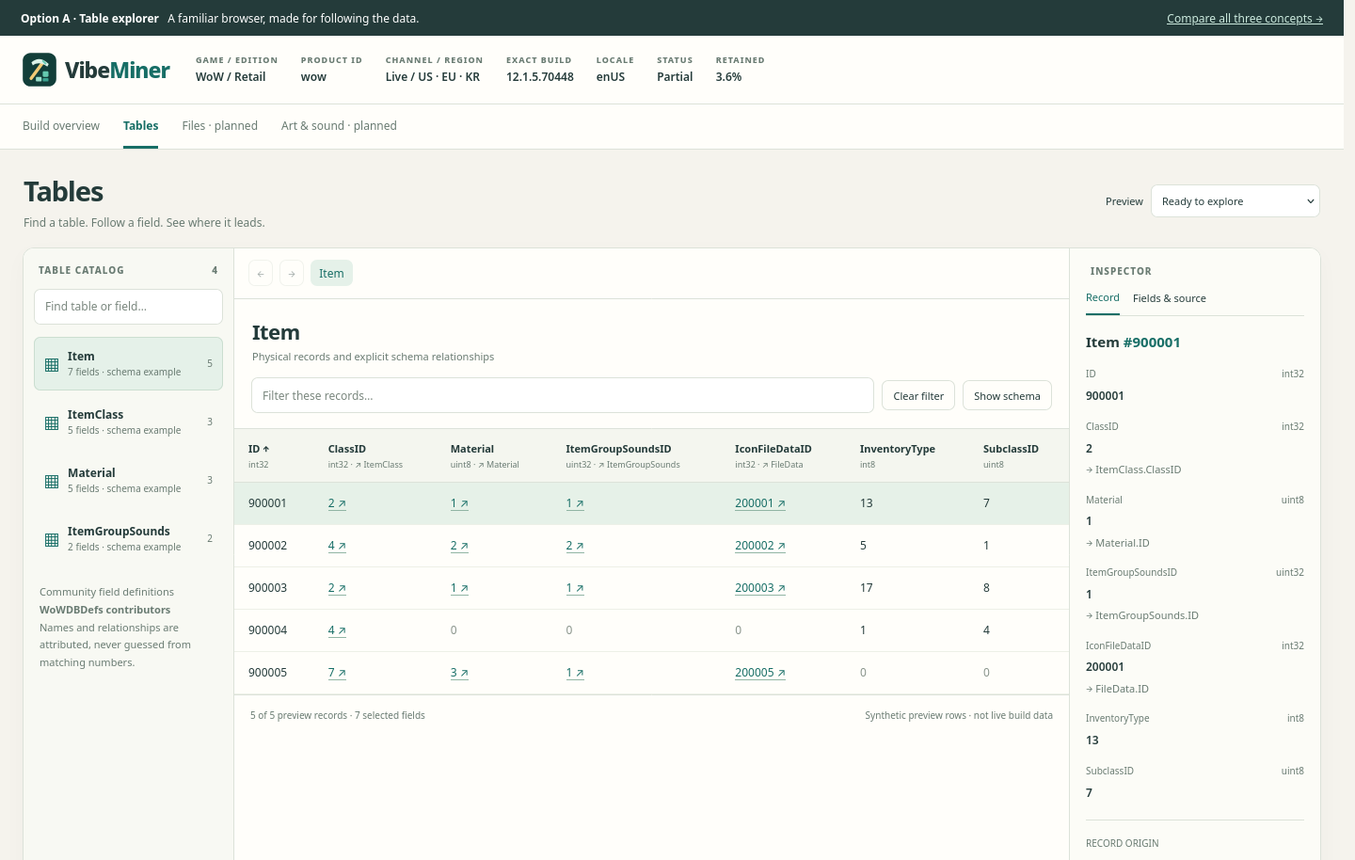
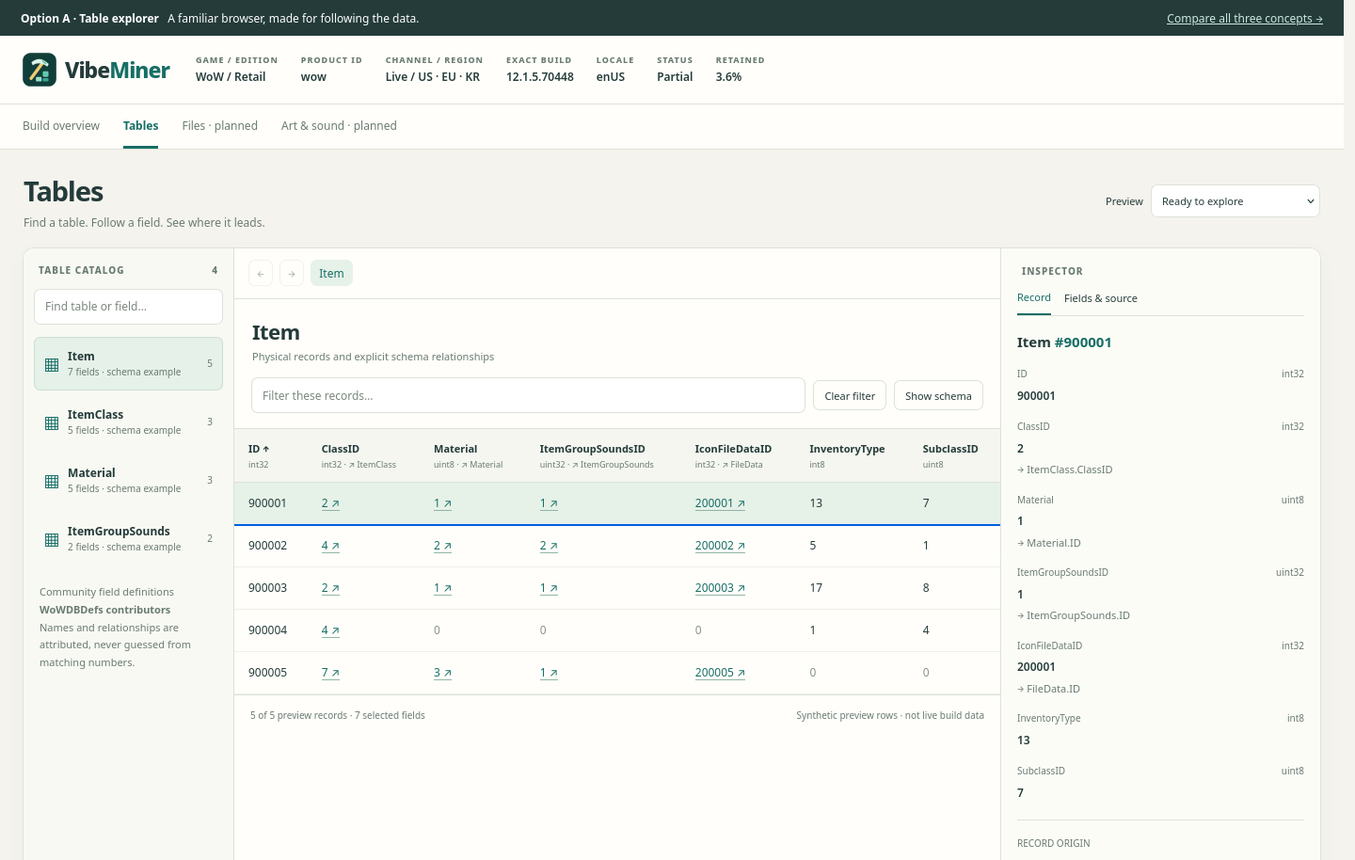
Refine Explorer inspector width and reset table trails (#108)

diff --git a/docs/design/tables/explorer/index.html b/docs/design/tables/explorer/index.html
@@ -1,5 +1,5 @@
 <!doctype html><html lang="en"><head><meta charset="utf-8"><meta name="viewport" content="width=device-width,initial-scale=1"><title>VibeMiner · Table explorer</title><link rel="icon" href="../../../../branding/vibeminer.svg"><style>
-:root{--bg:#f5f3ed;--paper:#fffefa;--ink:#243b3a;--muted:#697b72;--line:#dce2d9;--teal:#176e66;--mint:#e5f1e9;--gold:#936729}*{box-sizing:border-box}body{margin:0;background:var(--bg);color:var(--ink);font:14px/1.5 system-ui,sans-serif}button,input,select{font:inherit;color:inherit}button,a,input,select{outline-offset:3px}button:focus-visible,a:focus-visible,input:focus-visible,select:focus-visible{outline:3px solid #dda33a}button{border:1px solid var(--line);border-radius:7px;background:var(--paper);padding:7px 11px;cursor:pointer}button:hover{background:var(--mint);border-color:#91b5a4}button:disabled{opacity:.4;cursor:default}a{color:var(--teal)}input,select{border:1px solid var(--line);background:white;border-radius:7px;padding:9px 11px;min-width:0}input::placeholder{color:#7a877e}.review{padding:10px 22px;background:var(--ink);color:#fff;font-size:12px;display:flex;justify-content:space-between;gap:12px;flex-wrap:wrap}.review a{color:#cceade}.apphead{padding:17px 23px;display:flex;gap:28px;align-items:center;background:var(--paper);border-bottom:1px solid var(--line);flex-wrap:wrap}.brand{display:flex;gap:8px;align-items:center;font-size:23px;letter-spacing:-1px;font-weight:750}.brand img{width:38px;height:38px}.brand em{color:var(--teal);font-style:normal}.identity{display:flex;gap:24px;flex-wrap:wrap}.identity label{display:block;font-size:9px;font-weight:750;letter-spacing:1px;color:var(--muted)}.identity b{font-size:12px;font-weight:600}.appnav{display:flex;gap:25px;padding:0 24px;background:var(--paper);border-bottom:1px solid var(--line)}.appnav a,.appnav span{padding:13px 0;text-decoration:none;font-size:12px;color:var(--muted)}.appnav .active{color:var(--teal);border-bottom:3px solid var(--teal);font-weight:700}.heading{display:flex;align-items:center;justify-content:space-between;padding:22px 25px 17px;gap:15px}.heading h1{font-size:29px;letter-spacing:-1px;margin:0}.heading p{color:var(--muted);font-size:12px;margin:3px 0 0}.statepick{display:flex;gap:8px;align-items:center;font-size:11px}.statepick select{font-size:11px;max-width:180px}.workbench{display:grid;grid-template-columns:224px minmax(300px,1fr) 267px;min-height:550px;margin:0 24px 25px;border:1px solid var(--line);border-radius:12px;background:var(--paper);overflow:hidden;box-shadow:0 7px 24px #1b372407}.tables{background:#f8f9f3;border-right:1px solid var(--line);padding:16px 11px}.sectionlabel{display:flex;justify-content:space-between;font-size:10px;font-weight:750;color:var(--muted);letter-spacing:1px;text-transform:uppercase;margin:0 5px 12px}.tables input{width:100%;font-size:12px;margin-bottom:13px}.tableitem{display:flex;align-items:center;gap:9px;border-color:transparent;background:transparent;width:100%;text-align:left;padding:11px 10px;margin-bottom:5px}.tableitem.selected{background:var(--mint);border-color:#cbded0}.tableitem .glyph{font-size:21px;color:var(--teal)}.tableitem b{display:block;font-size:12px}.tableitem small{display:block;font-size:10px;color:var(--muted)}.count{margin-left:auto;font-size:10px;color:var(--muted)}.smallnote{font-size:11px;line-height:1.7;color:var(--muted);margin:19px 6px}.center{min-width:0}.trail{display:flex;align-items:center;gap:7px;padding:12px 15px;border-bottom:1px solid var(--line);min-height:54px;overflow:auto}.trail button{font-size:12px;padding:4px 8px;white-space:nowrap}.trail .crumb{color:var(--teal);background:var(--mint);border-color:transparent}.tabletitle{padding:18px 19px 14px}.tabletitle h2{font-size:22px;letter-spacing:-.5px;margin:0 0 2px}.tabletitle p{margin:0;font-size:11px;color:var(--muted)}.toolbar{display:flex;gap:8px;align-items:center;padding:0 18px 16px;flex-wrap:wrap}.toolbar input{flex:1;min-width:140px;font-size:12px}.toolbar button{font-size:11px}.notice{background:#fff4dd;border:1px solid #ead8af;color:#805d25;padding:10px 12px;border-radius:7px;font-size:11px;margin:0 18px 13px}.notice.good{background:#edf5ed;color:var(--teal);border-color:#d5e5d6}.gridwrap{overflow:auto;max-height:400px;min-height:255px;border-top:1px solid var(--line)}table{width:100%;border-collapse:collapse;white-space:nowrap;font-size:12px}th{text-align:left;background:#f4f6ef;padding:11px 15px;border-bottom:1px solid var(--line);position:sticky;top:0;z-index:1}th button{border:0;background:transparent;padding:0;text-align:left;font-size:11px;font-weight:700}th small{display:block;font-size:9px;font-weight:400;color:var(--muted);margin-top:2px}td{padding:13px 15px;border-bottom:1px solid #edf0e7;font-variant-numeric:tabular-nums}tr:hover td{background:#f3f7ee}tr.selected td{background:#e6f1e8}tr.matched td:first-child{box-shadow:inset 3px 0 var(--teal)}.fk{border:0;padding:0;background:none;color:var(--teal);font-size:12px;text-decoration:underline;text-decoration-color:#91b5a4;text-underline-offset:3px}.fk:hover{background:none}.null{color:#89948b}.rowfooter{display:flex;justify-content:space-between;gap:12px;padding:14px 17px;font-size:10px;color:var(--muted);border-top:1px solid var(--line)}.inspector{border-left:1px solid var(--line);padding:17px;background:#fcfcf7;min-width:0}.inspector h3{font-size:15px;margin:4px 0 15px}.inspector .tabs{display:flex;gap:14px;border-bottom:1px solid var(--line);margin-bottom:16px}.tabs button{border:0;border-radius:0;padding:0 0 9px;font-size:11px;background:none}.tabs .active{color:var(--teal);border-bottom:2px solid var(--teal)}.field{margin:0 0 16px}.field label{display:block;font-size:10px;color:var(--muted);margin-bottom:4px}.field b{font-size:12px;font-weight:600;overflow-wrap:anywhere}.field code{font-size:11px;background:#eaf0e7;padding:2px 5px;border-radius:3px}.field p{font-size:11px;margin:5px 0;color:var(--muted)}.field a{overflow-wrap:anywhere;font-size:11px}.divider{border-top:1px solid var(--line);padding-top:17px;margin-top:19px}.empty{text-align:center;white-space:normal;padding:45px 25px}.empty h3{font-size:18px;margin:0 0 8px}.empty p{color:var(--muted);max-width:350px;margin:0 auto 15px;font-size:12px}.footer{padding:0 25px 22px;color:var(--muted);font-size:10px}.toast{position:fixed;bottom:22px;left:50%;transform:translateX(-50%);background:var(--ink);color:white;padding:11px 18px;border-radius:8px;font-size:12px;max-width:90vw;z-index:5}.schema-row{display:grid;grid-template-columns:1fr 1fr;padding:10px 0;border-bottom:1px solid var(--line);font-size:11px}.schema-row b{font-weight:600}.schema-row span{color:var(--muted)}@media(max-width:1100px){.workbench{grid-template-columns:190px minmax(300px,1fr)}.inspector{grid-column:1/-1;border-left:0;border-top:1px solid var(--line);display:block}.inspector .fields{display:flex;gap:25px;flex-wrap:wrap}.inspector .field{min-width:150px;flex:1}.identity{gap:13px}.apphead{gap:18px}.workbench{margin:0 15px 20px}}@media(max-width:700px){.workbench{display:block}.tables{border-right:0;border-bottom:1px solid var(--line)}#tablelist{display:flex;overflow:auto}.tableitem{min-width:160px}.tables .smallnote{display:none}.heading{align-items:flex-start;flex-wrap:wrap}.identity{width:100%}.appnav{overflow:auto;gap:20px}.appnav span,.appnav a{white-space:nowrap}.review{font-size:11px}.gridwrap{max-height:350px}.statepick{flex-wrap:wrap}.apphead{padding:13px 18px}}
+:root{--bg:#f5f3ed;--paper:#fffefa;--ink:#243b3a;--muted:#697b72;--line:#dce2d9;--teal:#176e66;--mint:#e5f1e9;--gold:#936729}*{box-sizing:border-box}body{margin:0;background:var(--bg);color:var(--ink);font:14px/1.5 system-ui,sans-serif}button,input,select{font:inherit;color:inherit}button,a,input,select{outline-offset:3px}button:focus-visible,a:focus-visible,input:focus-visible,select:focus-visible{outline:3px solid #dda33a}button{border:1px solid var(--line);border-radius:7px;background:var(--paper);padding:7px 11px;cursor:pointer}button:hover{background:var(--mint);border-color:#91b5a4}button:disabled{opacity:.4;cursor:default}a{color:var(--teal)}input,select{border:1px solid var(--line);background:white;border-radius:7px;padding:9px 11px;min-width:0}input::placeholder{color:#7a877e}.review{padding:10px 22px;background:var(--ink);color:#fff;font-size:12px;display:flex;justify-content:space-between;gap:12px;flex-wrap:wrap}.review a{color:#cceade}.apphead{padding:17px 23px;display:flex;gap:28px;align-items:center;background:var(--paper);border-bottom:1px solid var(--line);flex-wrap:wrap}.brand{display:flex;gap:8px;align-items:center;font-size:23px;letter-spacing:-1px;font-weight:750}.brand img{width:38px;height:38px}.brand em{color:var(--teal);font-style:normal}.identity{display:flex;gap:24px;flex-wrap:wrap}.identity label{display:block;font-size:9px;font-weight:750;letter-spacing:1px;color:var(--muted)}.identity b{font-size:12px;font-weight:600}.appnav{display:flex;gap:25px;padding:0 24px;background:var(--paper);border-bottom:1px solid var(--line)}.appnav a,.appnav span{padding:13px 0;text-decoration:none;font-size:12px;color:var(--muted)}.appnav .active{color:var(--teal);border-bottom:3px solid var(--teal);font-weight:700}.heading{display:flex;align-items:center;justify-content:space-between;padding:22px 25px 17px;gap:15px}.heading h1{font-size:29px;letter-spacing:-1px;margin:0}.heading p{color:var(--muted);font-size:12px;margin:3px 0 0}.statepick{display:flex;gap:8px;align-items:center;font-size:11px}.statepick select{font-size:11px;max-width:180px}.workbench{display:grid;grid-template-columns:224px minmax(300px,1fr) 340px;min-height:550px;margin:0 24px 25px;border:1px solid var(--line);border-radius:12px;background:var(--paper);overflow:hidden;box-shadow:0 7px 24px #1b372407}.tables{background:#f8f9f3;border-right:1px solid var(--line);padding:16px 11px}.sectionlabel{display:flex;justify-content:space-between;font-size:10px;font-weight:750;color:var(--muted);letter-spacing:1px;text-transform:uppercase;margin:0 5px 12px}.tables input{width:100%;font-size:12px;margin-bottom:13px}.tableitem{display:flex;align-items:center;gap:9px;border-color:transparent;background:transparent;width:100%;text-align:left;padding:11px 10px;margin-bottom:5px}.tableitem.selected{background:var(--mint);border-color:#cbded0}.tableitem .glyph{font-size:21px;color:var(--teal)}.tableitem b{display:block;font-size:12px}.tableitem small{display:block;font-size:10px;color:var(--muted)}.count{margin-left:auto;font-size:10px;color:var(--muted)}.smallnote{font-size:11px;line-height:1.7;color:var(--muted);margin:19px 6px}.center{min-width:0}.trail{display:flex;align-items:center;gap:7px;padding:12px 15px;border-bottom:1px solid var(--line);min-height:54px;overflow:auto}.trail button{font-size:12px;padding:4px 8px;white-space:nowrap}.trail .crumb{color:var(--teal);background:var(--mint);border-color:transparent}.tabletitle{padding:18px 19px 14px}.tabletitle h2{font-size:22px;letter-spacing:-.5px;margin:0 0 2px}.tabletitle p{margin:0;font-size:11px;color:var(--muted)}.toolbar{display:flex;gap:8px;align-items:center;padding:0 18px 16px;flex-wrap:wrap}.toolbar input{flex:1;min-width:140px;font-size:12px}.toolbar button{font-size:11px}.notice{background:#fff4dd;border:1px solid #ead8af;color:#805d25;padding:10px 12px;border-radius:7px;font-size:11px;margin:0 18px 13px}.notice.good{background:#edf5ed;color:var(--teal);border-color:#d5e5d6}.gridwrap{overflow:auto;max-height:400px;min-height:255px;border-top:1px solid var(--line)}table{width:100%;border-collapse:collapse;white-space:nowrap;font-size:12px}th{text-align:left;background:#f4f6ef;padding:11px 15px;border-bottom:1px solid var(--line);position:sticky;top:0;z-index:1}th button{border:0;background:transparent;padding:0;text-align:left;font-size:11px;font-weight:700}th small{display:block;font-size:9px;font-weight:400;color:var(--muted);margin-top:2px}td{padding:13px 15px;border-bottom:1px solid #edf0e7;font-variant-numeric:tabular-nums}tr:hover td{background:#f3f7ee}tr.selected td{background:#e6f1e8}tr.matched td:first-child{box-shadow:inset 3px 0 var(--teal)}.fk{border:0;padding:0;background:none;color:var(--teal);font-size:12px;text-decoration:underline;text-decoration-color:#91b5a4;text-underline-offset:3px}.fk:hover{background:none}.null{color:#89948b}.rowfooter{display:flex;justify-content:space-between;gap:12px;padding:14px 17px;font-size:10px;color:var(--muted);border-top:1px solid var(--line)}.inspector{border-left:1px solid var(--line);padding:17px;background:#fcfcf7;min-width:0}.inspector h3{font-size:15px;margin:4px 0 15px}.inspector .tabs{display:flex;gap:14px;border-bottom:1px solid var(--line);margin-bottom:16px}.tabs button{border:0;border-radius:0;padding:0 0 9px;font-size:11px;background:none}.tabs .active{color:var(--teal);border-bottom:2px solid var(--teal)}.field{margin:0 0 16px}.field label{display:block;font-size:10px;color:var(--muted);margin-bottom:4px}.field b{font-size:12px;font-weight:600;overflow-wrap:anywhere}.field code{font-size:11px;background:#eaf0e7;padding:2px 5px;border-radius:3px}.field p{font-size:11px;margin:5px 0;color:var(--muted)}.field a{overflow-wrap:anywhere;font-size:11px}.divider{border-top:1px solid var(--line);padding-top:17px;margin-top:19px}.empty{text-align:center;white-space:normal;padding:45px 25px}.empty h3{font-size:18px;margin:0 0 8px}.empty p{color:var(--muted);max-width:350px;margin:0 auto 15px;font-size:12px}.footer{padding:0 25px 22px;color:var(--muted);font-size:10px}.toast{position:fixed;bottom:22px;left:50%;transform:translateX(-50%);background:var(--ink);color:white;padding:11px 18px;border-radius:8px;font-size:12px;max-width:90vw;z-index:5}.schema-row{display:grid;grid-template-columns:1fr 1fr;padding:10px 0;border-bottom:1px solid var(--line);font-size:11px}.schema-row b{font-weight:600}.schema-row span{color:var(--muted)}@media(max-width:1100px){.workbench{grid-template-columns:190px minmax(300px,1fr)}.inspector{grid-column:1/-1;border-left:0;border-top:1px solid var(--line);display:block}.inspector .fields{display:flex;gap:25px;flex-wrap:wrap}.inspector .field{min-width:150px;flex:1}.identity{gap:13px}.apphead{gap:18px}.workbench{margin:0 15px 20px}}@media(max-width:700px){.workbench{display:block}.tables{border-right:0;border-bottom:1px solid var(--line)}#tablelist{display:flex;overflow:auto}.tableitem{min-width:160px}.tables .smallnote{display:none}.heading{align-items:flex-start;flex-wrap:wrap}.identity{width:100%}.appnav{overflow:auto;gap:20px}.appnav span,.appnav a{white-space:nowrap}.review{font-size:11px}.gridwrap{max-height:350px}.statepick{flex-wrap:wrap}.apphead{padding:13px 18px}}
 </style></head><body><div class="review"><span><b>Option A · Table explorer</b> &nbsp; A familiar browser, made for following the data.</span><a href="../index.html">Compare all three concepts →</a></div><header class="apphead"><div class="brand"><img src="../../../../branding/vibeminer.svg" alt=""><span>Vibe<em>Miner</em></span></div><div class="identity"><div><label>GAME / EDITION</label><b>WoW / Retail</b></div><div><label>PRODUCT ID</label><b>wow</b></div><div><label>CHANNEL / REGION</label><b>Live / US · EU · KR</b></div><div><label>EXACT BUILD</label><b>12.1.5.70448</b></div><div><label>LOCALE</label><b>enUS</b></div><div><label>STATUS</label><b>Partial</b></div><div><label>RETAINED</label><b>3.6%</b></div></div></header><nav class="appnav" aria-label="Build navigation"><a href="../../build-mining-home/index.html?concept=archive">Build overview</a><span class="active">Tables</span><span>Files · planned</span><span>Art & sound · planned</span></nav><div class="heading"><div><h1>Tables</h1><p>Find a table. Follow a field. See where it leads.</p></div><div class="statepick"><label for="state">Preview</label><select id="state"><option value="ready">Ready to explore</option><option value="notdownloaded">Not downloaded</option><option value="encrypted">Encrypted · key missing</option><option value="schema">No matching schema</option><option value="missing">Relationship target missing</option><option value="many">Multiple target matches</option></select></div></div><main class="workbench"><aside class="tables"><div class="sectionlabel">Table catalog <span>4</span></div><label for="tablequery" class="sr-only" hidden>Find a table or field</label><input id="tablequery" aria-label="Find a table or field" placeholder="Find table or field…"><div id="tablelist"></div><p class="smallnote">Community field definitions<br><b>WoWDBDefs contributors</b><br>Names and relationships are attributed, never guessed from matching numbers.</p></aside><section class="center" aria-label="Table records"><div class="trail"><button id="back" aria-label="Back in table navigation">←</button><button id="forward" aria-label="Forward in table navigation">→</button><div id="trail"></div></div><div class="tabletitle"><h2 id="tablename" tabindex="-1"></h2><p id="tablemeta"></p></div><div class="toolbar"><input id="rowquery" aria-label="Filter records in this table" placeholder="Filter these records…"><button id="clear">Clear filter</button><button id="schemaToggle">Show schema</button></div><div id="banner" aria-live="polite"></div><div class="gridwrap" id="grid"></div><div class="rowfooter"><span id="rowcount"></span><span>Synthetic preview rows · not live build data</span></div></section><aside class="inspector" aria-label="Record and field inspector"><div class="sectionlabel">Inspector</div><div class="tabs"><button id="recordtab" class="active">Record</button><button id="fieldtab">Fields & source</button></div><div id="inspect"></div></aside></main><footer class="footer">Interactive design prototype · authored sample records, not extracted game content. Actual community schema examples are separately attributed; definition selectors include build 12.1.5.70448, but actual file headers and row compatibility have not been validated. No downloads, persistence or CDN requests occur. Definition excerpts: WoWDBDefs contributors, <a href="https://github.com/wowdev/WoWDBDefs/blob/b9a63096cdd99b26967f17f9515377ae62cadfd7/LICENSE.md">CC BY-SA 4.0</a>.</footer><div id="toast" role="status"></div><script>
 const db={};
 const source='https://github.com/wowdev/WoWDBDefs/blob/b9a63096cdd99b26967f17f9515377ae62cadfd7/definitions/';
@@ -12,10 +12,10 @@ let current='Item',selected=900001,query='',sortField='ID',ascending=true,histor
 function toast(t){$('toast').textContent=t;$('toast').className='toast';setTimeout(()=>{$('toast').className='';$('toast').textContent=''},4500)}
 function remember(){history[position]={table:current,id:selected,match:targetMatch,query,sortField,ascending,schemaView,fieldView}}
 function focusRecord(){let row=document.querySelector('[data-row="'+selected+'"]');(row||$('tablename')).focus({preventScroll:true})}
-function goto(table,id=null,match=''){if(!db[table])return;remember();current=table;selected=id??db[table].rows[0]?.ID;targetMatch=match;query='';$('rowquery').value='';sortField='ID';ascending=true;history=history.slice(0,position+1);history.push({table,id:selected,match,query:'',sortField:'ID',ascending:true,schemaView,fieldView});position++;state='ready';$('state').value=state;render();focusRecord()}
+function goto(table,id=null,match='',fresh=false){if(!db[table])return;if(fresh){history=[];position=-1}else remember();current=table;selected=id??db[table].rows[0]?.ID;targetMatch=match;query='';$('rowquery').value='';sortField='ID';ascending=true;history=history.slice(0,position+1);history.push({table,id:selected,match,query:'',sortField:'ID',ascending:true,schemaView,fieldView});position++;state='ready';$('state').value=state;render();focusRecord()}
 function navigate(delta){remember();position+=delta;const h=history[position];current=h.table;selected=h.id;targetMatch=h.match||'';query=h.query||'';sortField=h.sortField||'ID';ascending=h.ascending??true;schemaView=h.schemaView??false;fieldView=h.fieldView??false;$('rowquery').value=query;state='ready';$('state').value=state;render();focusRecord()}
 function relation(field,value){if(value===0){toast('Zero is shown as a raw value; no target record is assumed.');return}if(!db[field.target]){$('banner').innerHTML='<div class="notice">'+esc(field.target)+' is outside this four-table preview. The DBD relationship is declared; no target record or availability is assumed.</div>';return}let matches=db[field.target].rows.filter(r=>r[field.key]===value);if(!matches.length){$('banner').innerHTML='<div class="notice">No matching '+esc(field.target)+'.'+esc(field.key)+' record in this preview. Source value '+value+' is preserved.</div>';return}if(matches.length>1){$('banner').innerHTML='<div class="notice">Multiple matching records in '+esc(field.target)+'.'+esc(field.key)+'. Choose a target: '+matches.map(r=>'<button data-candidate="'+r.ID+'">Record '+r.ID+'</button>').join(' ')+'</div>';document.querySelectorAll('[data-candidate]').forEach(b=>b.onclick=()=>goto(field.target,Number(b.dataset.candidate),field.key+' = '+value));return}goto(field.target,matches[0].ID,field.key+' = '+value)}
-function tablelist(){const q=$('tablequery').value.toLowerCase();$('tablelist').innerHTML=Object.keys(db).filter(t=>(t+' '+db[t].fields.map(f=>f.name).join(' ')).toLowerCase().includes(q)).map(t=>'<button class="tableitem '+(t===current?'selected':'')+'" data-table="'+t+'"><span class="glyph">▦</span><span><b>'+t+'</b><small>'+db[t].fields.length+' fields · schema example</small></span><span class="count">'+db[t].rows.length+'</span></button>').join('')||'<p class="smallnote">No matching tables or fields.</p>';document.querySelectorAll('[data-table]').forEach(b=>b.onclick=()=>goto(b.dataset.table))}
+function tablelist(){const q=$('tablequery').value.toLowerCase();$('tablelist').innerHTML=Object.keys(db).filter(t=>(t+' '+db[t].fields.map(f=>f.name).join(' ')).toLowerCase().includes(q)).map(t=>'<button class="tableitem '+(t===current?'selected':'')+'" data-table="'+t+'"><span class="glyph">▦</span><span><b>'+t+'</b><small>'+db[t].fields.length+' fields · schema example</small></span><span class="count">'+db[t].rows.length+'</span></button>').join('')||'<p class="smallnote">No matching tables or fields.</p>';document.querySelectorAll('[data-table]').forEach(b=>b.onclick=()=>goto(b.dataset.table,null,'',true))}
 function inspector(){const table=db[current],row=table.rows.find(r=>r.ID===selected);$('recordtab').classList.toggle('active',!fieldView);$('fieldtab').classList.toggle('active',fieldView);if(fieldView){$('inspect').innerHTML='<h3>Field definitions</h3><div class="fields">'+table.fields.map(f=>'<div class="field"><label>'+esc(f.name)+'</label><b>'+esc(f.type)+'</b>'+(f.target?'<p>Declared relationship<br><code>'+f.target+'.'+f.key+'</code></p>':f.name==='SubclassID'?'<p>No explicit relationship here. Matching numbers are not a link.</p>':'')+'</div>').join('')+'</div><div class="field divider"><label>DEFINITION SOURCE</label><b>WoWDBDefs · community-maintained</b><p>Revision b9a6309 · selected field names/types, not record values. Arrays stay arrays; they do not imply a relationship. Pinned selectors include this build; actual table headers and row compatibility remain unverified.</p><a href="'+source+current+'.dbd" target="_blank" rel="noreferrer">Inspect '+current+'.dbd ↗</a></div>';return}if(!row){$('inspect').innerHTML='<h3>Select a record</h3><p class="smallnote">Inspect raw fields and follow explicitly declared relationships.</p>';return}$('inspect').innerHTML='<h3>'+current+' <span style="color:var(--teal)">#'+row.ID+'</span></h3><div class="fields">'+table.fields.map(f=>'<div class="field"><label>'+f.name+' <span style="float:right">'+esc(f.type)+'</span></label><b>'+esc(row[f.name])+'</b>'+(f.target?'<p>→ '+f.target+'.'+f.key+'</p>':'')+'</div>').join('')+'</div><div class="field divider"><label>RECORD ORIGIN</label><b>Authored demonstration row</b><p>Not a game record. The pinned definition lists this build; this demonstration record is not extracted from it.</p></div>'}
 function render(){tablelist();$('tablename').textContent=current;$('tablemeta').textContent=db[current].description;$('back').disabled=position===0;$('forward').disabled=position===history.length-1;$('trail').innerHTML=history.slice(Math.max(0,position-2),position+1).map(h=>'<button class="crumb" data-jump="'+history.indexOf(h)+'">'+h.table+(h.match?' · '+esc(h.match):'')+'</button>').join(' <span style="color:#9aa99d">›</span> ');document.querySelectorAll('[data-jump]').forEach(b=>b.onclick=()=>{navigate(Number(b.dataset.jump)-position)});$('banner').innerHTML=targetMatch?'<div class="notice good">Following '+esc(targetMatch)+' · exact declared target field. <button id="showall" style="font-size:10px;padding:2px 6px">Clear highlight</button></div>':'';if($('showall'))$('showall').onclick=()=>{targetMatch='';render()};const table=db[current];let rows=table.rows.filter(r=>Object.values(r).some(v=>String(v).toLowerCase().includes(query.toLowerCase()))).sort((a,b)=>{let x=a[sortField],y=b[sortField];return (typeof x==='number'?x-y:String(x).localeCompare(String(y)))*(ascending?1:-1)});$('rowcount').textContent=rows.length+' of '+table.rows.length+' preview records · '+table.fields.length+' selected fields';if(state!=='ready'){const messages={notdownloaded:['This table is not local yet','Opening a table would fetch only the required content. Other retained tables remain available.','Preview table ready'],encrypted:['Encrypted content · key missing','A matching definition does not decrypt a table. Records remain unavailable until its required key is available.','Return to ready preview'],schema:['No compatible schema established','Raw content and a schema definition are different things. We cannot safely label columns for an unsupported build layout.','Return to ready preview'],missing:['No matching target record','The declared relationship is known, but its target is absent in the selected table view. We keep the original source value.','Return to ready preview'],many:['Multiple target matches','Two authored target rows share this key. No record is selected automatically; an actual browser would present the matching candidates.','Return to ready preview']};const m=messages[state];$('grid').innerHTML='<div class="empty"><h3>'+m[0]+'</h3><p>'+m[1]+'</p><button id="readyagain">'+m[2]+'</button></div>';$('readyagain').onclick=()=>{state='ready';$('state').value=state;render()};$('inspect').innerHTML='<h3>'+current+'</h3><p class="smallnote">'+m[1]+'</p>';return}if(schemaView){$('grid').innerHTML='<table><thead><tr><th>Column</th><th>Logical type</th><th>Declared target</th></tr></thead><tbody>'+table.fields.map(f=>'<tr><td>'+f.name+'</td><td>'+f.type+'</td><td>'+(f.target?f.target+'.'+f.key:'—')+'</td></tr>').join('')+'</tbody></table>';$('schemaToggle').textContent='Show records';inspector();return}$('schemaToggle').textContent='Show schema';$('grid').innerHTML='<table><thead><tr>'+table.fields.map(f=>'<th><button data-sort="'+f.name+'">'+f.name+(sortField===f.name?(ascending?' ↑':' ↓'):'')+'</button><small>'+esc(f.type)+(f.target?' · ↗ '+f.target:'')+'</small></th>').join('')+'</tr></thead><tbody>'+rows.map(r=>'<tr class="'+(r.ID===selected?'selected ':'')+(targetMatch&&String(r[ targetMatch.split(' = ')[0]])===targetMatch.split(' = ')[1]?'matched':'')+'" tabindex="0" data-row="'+r.ID+'" aria-label="Select record '+r.ID+'">'+table.fields.map(f=>'<td>'+(f.target&&r[f.name]!==0?'<button class="fk" data-field="'+f.name+'" data-value="'+r[f.name]+'" aria-label="Follow '+f.name+' '+r[f.name]+' to '+f.target+'.'+f.key+'">'+esc(r[f.name])+' ↗</button>':r[f.name]===0?'<span class="null">0</span>':esc(r[f.name]))+'</td>').join('')+'</tr>').join('')+'</tbody></table>'+(rows.length?'':'<div class="empty"><h3>No matching records</h3><p>Try another value or clear the filter.</p></div>');document.querySelectorAll('[data-sort]').forEach(b=>b.onclick=()=>{ascending=sortField===b.dataset.sort?!ascending:true;sortField=b.dataset.sort;render();document.querySelector('[data-sort="'+sortField+'"]').focus({preventScroll:true})});document.querySelectorAll('[data-row]').forEach(r=>{r.onclick=()=>{selected=Number(r.dataset.row);render();focusRecord()};r.onkeydown=e=>{if(e.key==='Enter'&&e.target===r){selected=Number(r.dataset.row);render();focusRecord()}}});document.querySelectorAll('[data-field]').forEach(b=>b.onclick=e=>{e.stopPropagation();selected=Number(b.closest('[data-row]').dataset.row);relation(table.fields.find(f=>f.name===b.dataset.field),Number(b.dataset.value))});inspector()}
 $('tablequery').oninput=tablelist;$('rowquery').oninput=e=>{query=e.target.value;render()};$('clear').onclick=()=>{query='';$('rowquery').value='';render()};$('back').onclick=()=>navigate(-1);$('forward').onclick=()=>navigate(1);$('schemaToggle').onclick=()=>{schemaView=!schemaView;render()};$('recordtab').onclick=()=>{fieldView=false;inspector()};$('fieldtab').onclick=()=>{fieldView=true;inspector()};$('state').onchange=e=>{state=e.target.value;render()};const requested=new URLSearchParams(location.search).get('state');if(requested&&[...$('state').options].some(o=>o.value===requested)){state=requested;$('state').value=state}render();

diff --git a/docs/design/tables/README.md b/docs/design/tables/README.md
@@ -19,3 +19,5 @@ All three prototypes were rendered in Firefox at a 1440 × 1000 outer window, ch
 - [Explorer screenshot](screenshots/explorer.png)
 - [Workbench screenshot](screenshots/workbench.png)
 - [Trail screenshot](screenshots/trail.png)
+
+Explorer refinement ([#108](https://github.com/aircan80/vibeminer/issues/108)): the desktop inspector is 340 px wide. Selecting a table in the left catalogue starts a fresh breadcrumb/history; following linked fields extends that trail. Option A is the current preference, pending further review.
